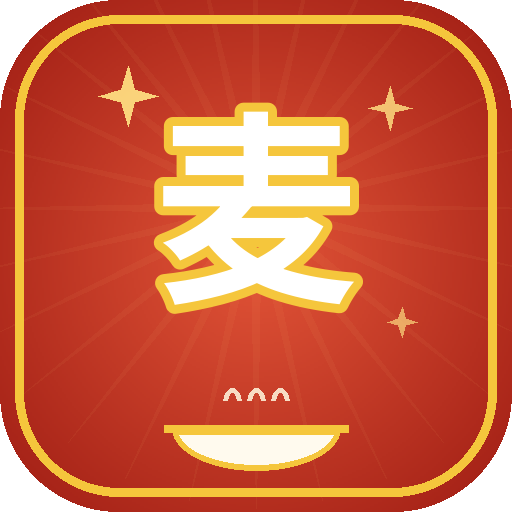
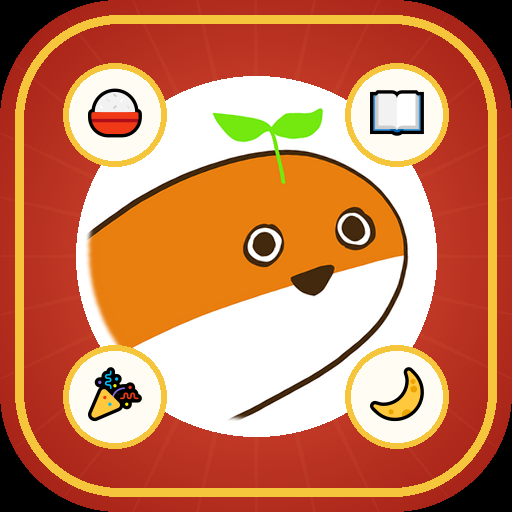
feat: 图标定稿为麦麦吉祥物红金版 + 插件更名麦麦小工具合集（v1.3.3）
- assets/icon.png：官方麦麦头像合成（白圆托 + 四个功能 emoji 徽章：
  🍚今天吃什么 📖答案之书 🎉喜报悲报 🌙早晚安）
- manifest display.icon 背景色 #A91C13；生成脚本 tests/make_icon_mascot.py
- 插件名统一改为麦麦小工具合集

diff --git a/tests/make_icon_mascot.py b/tests/make_icon_mascot.py
@@ -1,0 +1,135 @@
+"""生成麦麦吉祥物版图标预览 v2（使用官方头像原图合成，输出预览不直接使用）。
+
+运行：python tests/make_icon_mascot.py <官方头像路径>
+方案 A：红金喜庆底 + 头像圆 + 四个功能徽章（碗/书/图/钟）
+方案 B：奶白底 + 金圈 + 头像圆 + 四个功能徽章
+"""
+
+import math
+import sys
+from pathlib import Path
+
+from PIL import Image, ImageDraw, ImageFilter, ImageFont
+
+S = 512
+CX = S // 2
+GOLD = (245, 198, 60, 255)
+BROWN = (74, 46, 20, 255)
+CREAM = (255, 247, 232, 255)
+
+AVATAR = Path(
+    r"C:\Users\Neta Juutilainen\.zcode\cli\image-cache"
+    r"\sess_47c35dd7-2831-4a06-ae42-b04a79a53507"
+    r"\image-b57ba1353f2aaebfcf5103a5bf1311ff.png"
+)
+OUT_DIR = Path(__file__).resolve().parent.parent.parent / "tmp"
+
+
+def rounded_mask(size, radius):
+    mask = Image.new("L", (size, size), 0)
+    draw = ImageDraw.Draw(mask)
+    draw.rounded_rectangle([0, 0, size - 1, size - 1], radius=radius, fill=255)
+    return mask
+
+
+def extract_avatar_circle(size: int) -> Image.Image:
+    """从官方头像（1024 白圆 + 黑色晕角）抠出圆形头像，缩放到目标尺寸。
+
+    裁切时向内收 40px，确保圆内全是白色区域，不带黑色晕边。
+    """
+    src = Image.open(AVATAR).convert("RGBA")
+    w, h = src.size
+    side = min(w, h) - 80
+    box = (
+        (w - side) // 2,
+        (h - side) // 2,
+        (w + side) // 2,
+        (h + side) // 2,
+    )
+    avatar = src.crop(box).resize((size, size), Image.LANCZOS)
+    mask = Image.new("L", (size, size), 0)
+    draw = ImageDraw.Draw(mask)
+    draw.ellipse([8, 8, size - 9, size - 9], fill=255)
+    mask = mask.filter(ImageFilter.GaussianBlur(2))
+    avatar.putalpha(mask)
+    return avatar
+
+
+def red_bg():
+    grad = Image.radial_gradient("L").resize((S, S))
+    edge = Image.new("RGB", (S, S), (158, 28, 19))
+    center = Image.new("RGB", (S, S), (226, 84, 55))
+    img = Image.composite(edge, center, grad)
+    draw = ImageDraw.Draw(img, "RGBA")
+    for i in range(28):
+        angle = i * (2 * math.pi / 28)
+        half = math.radians(3.5)
+        r0, r1 = 60, 320
+        pts = [
+            (CX + r0 * math.cos(angle - half), CX + r0 * math.sin(angle - half)),
+            (CX + r1 * math.cos(angle), CX + r1 * math.sin(angle)),
+            (CX + r0 * math.cos(angle + half), CX + r0 * math.sin(angle + half)),
+        ]
+        draw.polygon(pts, fill=(255, 210, 120, 10))
+    draw.rounded_rectangle([15, 15, S - 16, S - 16], radius=104, outline=GOLD, width=9)
+    return img
+
+
+def cream_bg():
+    img = Image.new("RGB", (S, S), CREAM)
+    draw = ImageDraw.Draw(img, "RGBA")
+    draw.rounded_rectangle([15, 15, S - 16, S - 16], radius=104, outline=GOLD, width=9)
+    return img
+
+
+# --- 功能徽章：直接贴 emoji（以后加功能 = 加一个 (emoji, 说明) 再排个位置） --
+
+EMOJI_FONT = "C:/Windows/Fonts/seguiemj.ttf"
+
+EMOJI_BADGES = [
+    ("🍚", "今天吃什么"),
+    ("📖", "答案之书"),
+    ("🎉", "喜报/悲报"),
+    ("🌙", "早晚安"),
+]
+BADGE_POS = [(CX - 141, CX - 141), (CX + 141, CX - 141),
+             (CX - 141, CX + 141), (CX + 141, CX + 141)]
+
+
+def draw_badges(base: Image.Image, ring_color, badge_fill):
+    emoji_font = ImageFont.truetype(EMOJI_FONT, 48)
+    for (emoji, _label), (bx, by) in zip(EMOJI_BADGES, BADGE_POS):
+        r = 52
+        tile = Image.new("RGBA", (2 * r, 2 * r), (0, 0, 0, 0))
+        td = ImageDraw.Draw(tile)
+        td.ellipse([0, 0, 2 * r - 1, 2 * r - 1], fill=badge_fill)
+        td.text((r, r + 2), emoji, font=emoji_font, embedded_color=True, anchor="mm")
+        td.ellipse([0, 0, 2 * r - 1, 2 * r - 1], outline=ring_color, width=6)
+        mask = Image.new("L", (2 * r, 2 * r), 0)
+        ImageDraw.Draw(mask).ellipse([0, 0, 2 * r - 1, 2 * r - 1], fill=255)
+        base.paste(tile, (bx - r, by - r), mask)
+    return base
+
+
+def make(path: str, bg: str) -> None:
+    avatar = extract_avatar_circle(350)
+    avatar = avatar.rotate(-6, resample=Image.BICUBIC)
+
+    img = red_bg() if bg == "red" else cream_bg().convert("RGBA")
+    if bg == "red":
+        d = ImageDraw.Draw(img, "RGBA")
+        d.ellipse([CX - 180, CX - 180, CX + 180, CX + 180], fill=(255, 255, 255, 255))
+    img = img.convert("RGBA")
+    img.alpha_composite(avatar, (CX - 175, CX - 175 - 4))
+    img = draw_badges(img, GOLD, (255, 252, 244, 255) if bg == "red" else (255, 255, 255, 255))
+
+    out = Image.new("RGBA", (S, S), (0, 0, 0, 0))
+    out.paste(img, (0, 0), rounded_mask(S, 118))
+    out.convert("RGB").save(path)
+    print("已生成:", path)
+
+
+if __name__ == "__main__":
+    OUT_DIR.mkdir(exist_ok=True)
+    make(str(OUT_DIR / "icon_mascot_A_红底.png"), "red")
+    make(str(OUT_DIR / "icon_mascot_B_奶白底.png"), "cream")

diff --git a/plugin.py b/plugin.py
@@ -1,4 +1,4 @@
-"""麦爹必备娱乐小插件合集（部分功能移植自 AstrBot astrbot_plugin_essential）。
+"""麦麦小工具合集（部分功能移植自 AstrBot astrbot_plugin_essential）。
 
 功能：喜报/悲报图片生成、一言（/一言，回复不计入消息）、答案之书（<问题> 翻看答案）、
 今天吃什么（命令 + 被动触发：关键词概率推荐/复读，移植自 astrbot_plugin_what_to_eat）、
@@ -59,7 +59,7 @@ PassiveResponder = _passive_eat.PassiveResponder
 FoodImageIndex = _passive_eat.FoodImageIndex
 sniff_image_ext = _passive_eat.sniff_image_ext
 
-SUPPORTED_CONFIG_VERSION = "1.3.2"  # 与 manifest version 保持同步
+SUPPORTED_CONFIG_VERSION = "1.3.3"  # 与 manifest version 保持同步
 
 TZ8 = datetime.timezone(datetime.timedelta(hours=8))
 TIME_FMT = "%Y-%m-%d %H:%M:%S"
@@ -198,7 +198,7 @@ class EssentialPlugin(MaiBotPlugin):
         except OSError:
             pass
         self.ctx.logger.info(
-            "麦爹必备娱乐小插件合集已加载：食物 %d 项，早晚安记录 %d 个会话，答案之书 %d 条，食物图片 %d 种",
+            "麦麦小工具合集已加载：食物 %d 项，早晚安记录 %d 个会话，答案之书 %d 条，食物图片 %d 种",
             len(self._food.items),
             len(self._good_morning.data),
             len(self._answer_book.answers),
@@ -222,7 +222,7 @@ class EssentialPlugin(MaiBotPlugin):
             self._food_images.reload()
 
     async def on_unload(self) -> None:
-        self.ctx.logger.info("麦爹必备娱乐小插件合集已卸载")
+        self.ctx.logger.info("麦麦小工具合集已卸载")
 
     async def on_config_update(self, scope: str, config_data: dict[str, Any], version: str) -> None:
         if scope == CONFIG_RELOAD_SCOPE_SELF:
@@ -286,7 +286,7 @@ class EssentialPlugin(MaiBotPlugin):
     # -- 命令组件 -----------------------------------------------------------
 
     MENU_TEXT = (
-        "【麦爹必备娱乐小插件合集 · 指令列表】\n"
+        "【麦麦小工具合集 · 指令列表】\n"
         "/喜报 <内容> —— 生成喜报图片\n"
         "/悲报 <内容> —— 生成悲报图片\n"
         "一言 [文字] —— 随机一条一言（/ 可省；回复不计入消息）\n"

diff --git a/tests/verify.py b/tests/verify.py
@@ -165,7 +165,7 @@ def main() -> int:
 
     # ---- 3. 配置模型默认值 ------------------------------------------------
     cfg = plugin.EssentialConfig()
-    check("config_version 默认值存在", cfg.plugin.config_version == "1.3.2",
+    check("config_version 默认值存在", cfg.plugin.config_version == "1.3.3",
           f"实际: {cfg.plugin.config_version!r}")
     check("report.font_size 默认 65", cfg.report.font_size == 65)
     check("good_morning.cooldown_minutes 默认 30", cfg.good_morning.cooldown_minutes == 30)

diff --git a/README.md b/README.md
@@ -1,4 +1,4 @@
-# 麦爹必备娱乐小插件合集
+# 麦麦小工具合集
 
 MaiBot（麦麦）娱乐功能插件合集。**部分功能移植自 AstrBot 插件
 [astrbot_plugin_essential](https://github.com/Soulter/astrbot_plugin_essential)（Soulter / FateTrial）**，
@@ -58,7 +58,7 @@ MaiBot（麦麦）娱乐功能插件合集。**部分功能移植自 AstrBot 插
    OneKey 部署为 `<数据>\modules\MaiBot\plugins\`）。
 2. 在 WebUI（http://127.0.0.1:8001）插件管理中加载插件（更新代码后点重载即可，无需重启）。
    依赖 `aiohttp`、`Pillow` 由插件系统按 manifest 声明自动安装。
-3. 日志出现"麦爹必备娱乐小插件合集已加载"即可测试。
+3. 日志出现"麦麦小工具合集已加载"即可测试。
 
 ## 配置
 
